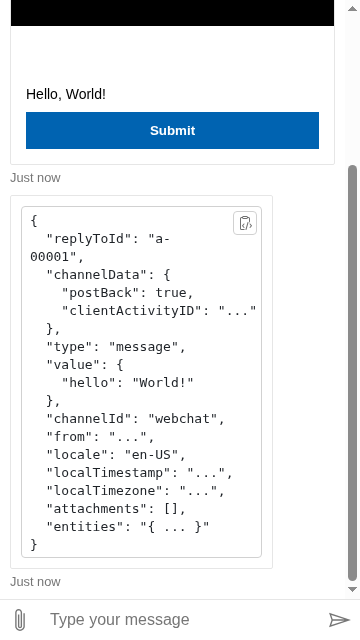
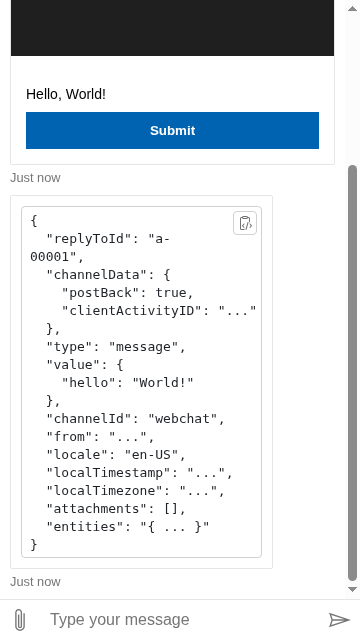
Use a local video and wait for its first frame in replyToId/cardAction/animationCard.html
The snapshot was taken before the remote video loaded (white instead of black).

Changed region(s): [[0.0306, 0.0, 0.9472, 0.0938]]

diff --git a/__tests__/html2/replyToId/cardAction/animationCard.html b/__tests__/html2/replyToId/cardAction/animationCard.html
@@ -8,6 +8,7 @@
     <script type="importmap">
       {
         "imports": {
+          "@testduet/wait-for": "https://esm.sh/@testduet/wait-for",
           "botframework-webchat": "/__dist__/packages/bundle/static/botframework-webchat.js",
           "botframework-webchat/": "/__dist__/packages/bundle/static/botframework-webchat/",
           "react": "https://esm.sh/react@18",
@@ -20,6 +21,7 @@
       import '/test-harness.mjs';
       import '/test-page-object.mjs';
 
+      import { waitFor } from '@testduet/wait-for';
       import { createStoreWithOptions, testIds } from 'botframework-webchat';
       import { usePerformCardAction } from 'botframework-webchat/hook.js';
       import createRenderHook from '/assets/esm/createRenderHook.js';
@@ -52,7 +54,8 @@
                 media: [
                   {
                     profile: 'animation',
-                    url: 'https://hawo-mockbot4-mock-bot-app.azurewebsites.net/assets/msband-FYTY3TX7.mp4'
+                    // `VideoContent` parses the URL with `new URL()`, so it must be absolute.
+                    url: new URL('/assets/dark-gray-video.webm', location.href).href
                   }
                 ],
                 autoloop: true,
@@ -67,7 +70,13 @@
         // Hide the controls because the timeline contains buffer size which will never converge.
         // We poll every 500ms until got 5 stable numbers.
         // However, the buffer size range from 3.035s to 3.238s, which produce different snapshot.
-        document.querySelector('video').controls = false;
+        const videoElement = document.querySelector('video');
+
+        videoElement.controls = false;
+
+        // The snapshot shows the first frame, wait until it is loaded.
+        await waitFor(() => expect(videoElement.readyState).toBe(HTMLMediaElement.HAVE_ENOUGH_DATA));
+        await pageConditions.mediaBufferStabilized(videoElement);
 
         const submitButton = pageElements.activities()[0].querySelector('.ac-pushButton');
 
@@ -100,6 +109,7 @@
         );
 
         await pageConditions.scrollStabilized();
+        // THEN: The card shows the first video frame, and the reply shows the post back activity with its `replyToId`.
         await host.snapshot('local');
       });
     </script>
